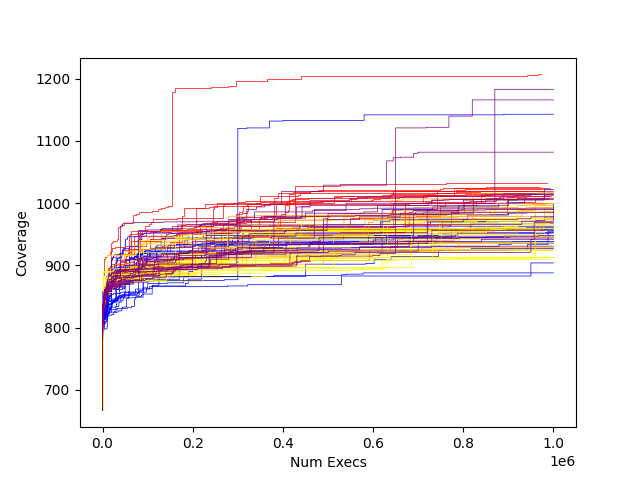
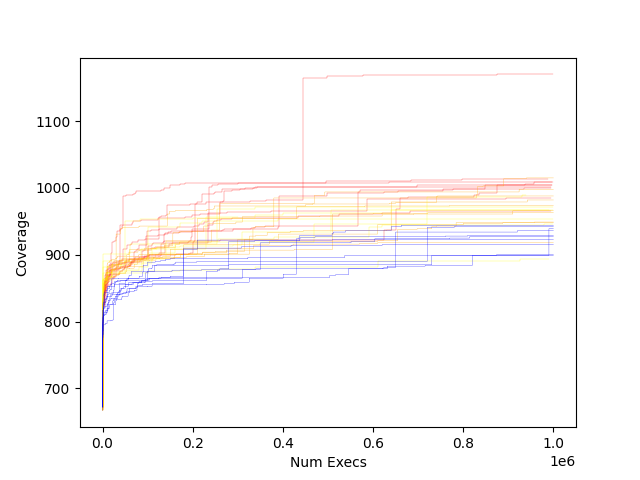
more work on plotting

diff --git a/fuzzers/forkserver_simple/plot_coverage.py b/fuzzers/forkserver_simple/plot_coverage.py
@@ -41,18 +41,18 @@ def plot_files(feedback_type, color):
         for f in files:
             df = pd.read_csv(f, names=columns)
             # plt.plot(df.num_execs, df.coverage, label=feedback_type)
-            plt.plot(df.num_execs, df.coverage, color=color, linewidth=0.2)
+            # plt.plot(df.num_execs, df.coverage, color=color, linewidth=0.2)
             # plt.scatter(df.num_execs, df.coverage, color=color)
             final_coverage_value = df.coverage.iloc[-1]
             coverage_at_end[feedback_type].append(final_coverage_value)
 
 for ft, c in feedback_types:
     plot_files(ft, c)
-plt.xlabel("Num Execs")
-plt.ylabel("Coverage")
+# plt.xlabel("Num Execs")
+# plt.ylabel("Coverage")
 # plt.legend()
-plt.savefig("coverage_plot.png")
-plt.clf()
+# plt.savefig("coverage_plot.png")
+# plt.clf()
 
 stats = {}
 colors = []
@@ -78,7 +78,7 @@ for feedback_type, c in feedback_types:
     axs[i].stairs(h, bins, color=c, label=feedback_type)
     axs[i].set_xlim(x_start, x_end)
     axs[i].get_xaxis().set_visible(False)
-    axs[i].set_ylim(0, 30)
+    axs[i].set_ylim(0, 40)
     axs[i].legend()
     i += 1
 axs[i - 1].get_xaxis().set_visible(True)
